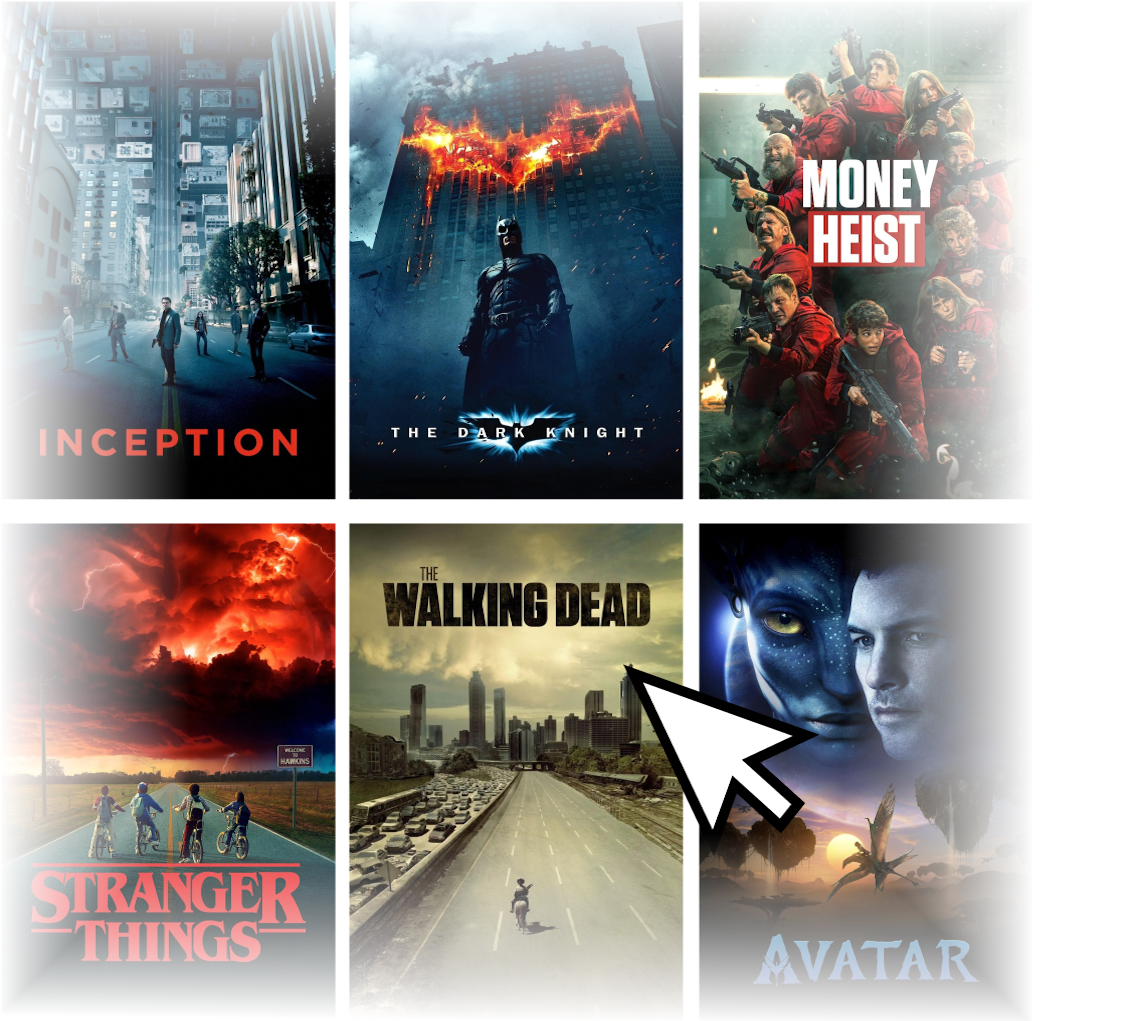
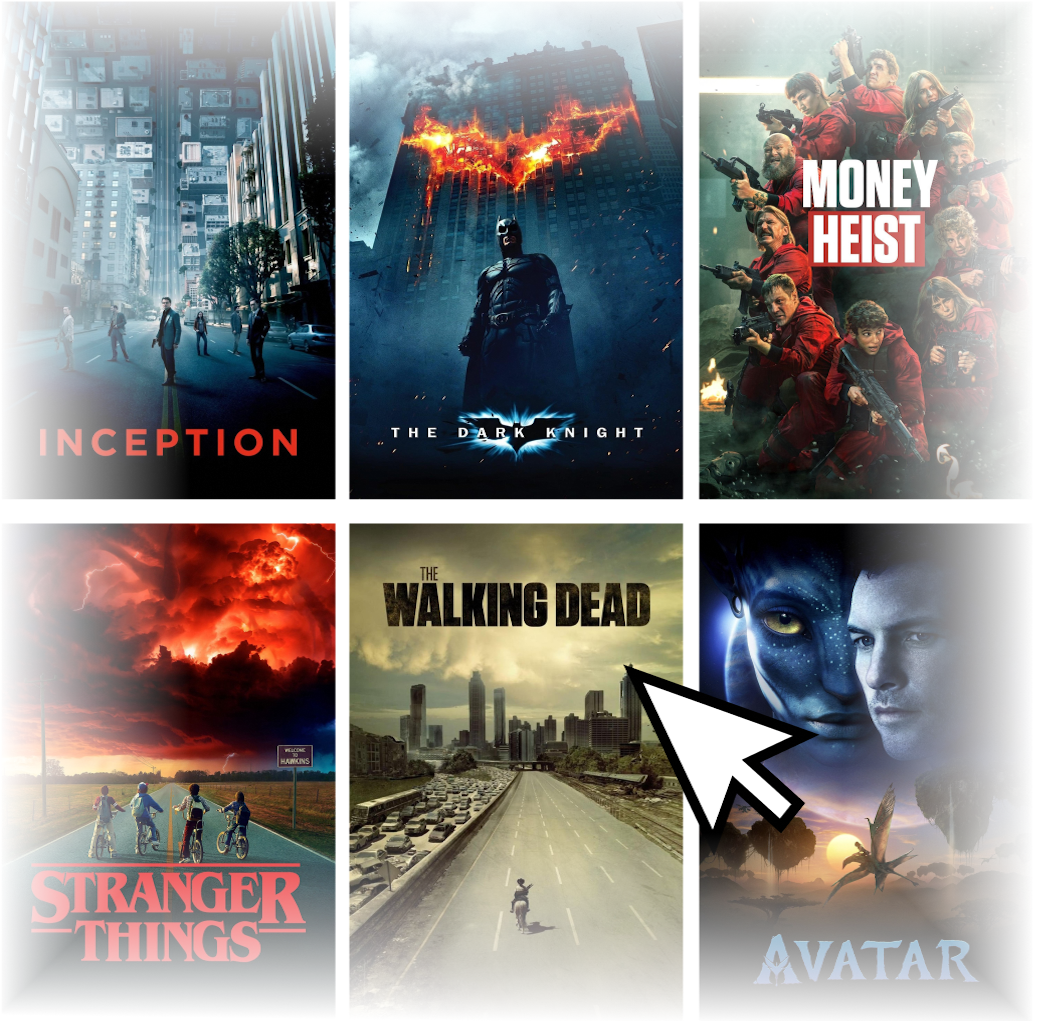
Refactor infocard component layout and styles; Update initial page card arrangement

diff --git a/cineland-client/src/app/shared/components/infocard/infocard.component.html b/cineland-client/src/app/shared/components/infocard/infocard.component.html
@@ -1,10 +1,9 @@
-<div class="bg-[#171515] max-w-[30rem] h-[35rem] rounded-[50px] py-10 px-5">
-
-    <div class="image">
+<div class="bg-[#171515] py-4 px-4 m-3 rounded-4xl flex flex-col h-100 w-70 md:w-55 lg:w-80 xl:w-100 2xl:w-140 2xl:h-150 gap-5 justify-center ">
+    <div class="w-full flex justify-center h-[60%]">
         <img [src]="imgPath">
     </div>
-    <div class="texts text-white flex flex-col items-center justify-end">
+    <div class="text-white flex flex-col gap-3 justify-end">
         <span class="text-4xl text-center"> {{title}} </span> 
-        <span class="text-xl text-wrap text-center"> {{content}} </span>
+        <span class="text-xl xl:text-2xl text-wrap text-center"> {{content}} </span>
     </div>
 </div>

diff --git a/cineland-client/src/app/initial-page/initial-page/initial-page.component.html b/cineland-client/src/app/initial-page/initial-page/initial-page.component.html
@@ -16,7 +16,7 @@
     </div>
 
     <!-- cards -->
-     <div class="flex flex-row py-10 justify-evenly flex-wrap gap-5 xl:gap-0 ">
+     <div class="flex flex-col gap-1 py-10 md:flex-row content-center justify-center md:justify-evenly flex-wrap">
         @for (card of cards; track $index) {
             <app-infocard [title]="card.title" [content]="card.content" [imgPath]="card.imgPath"></app-infocard>
         } 
